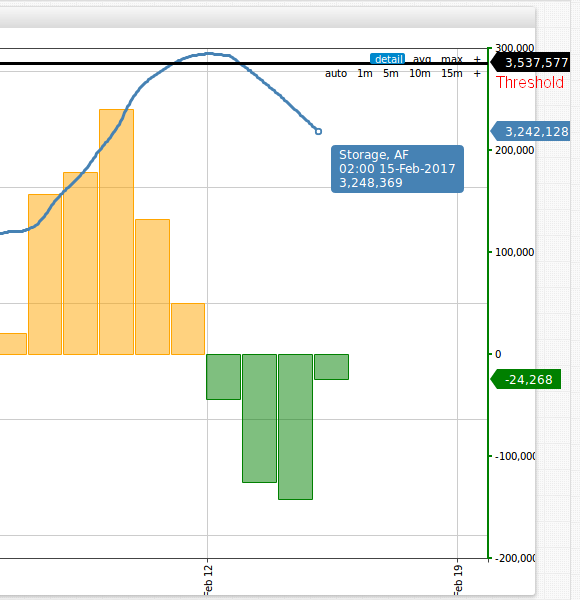
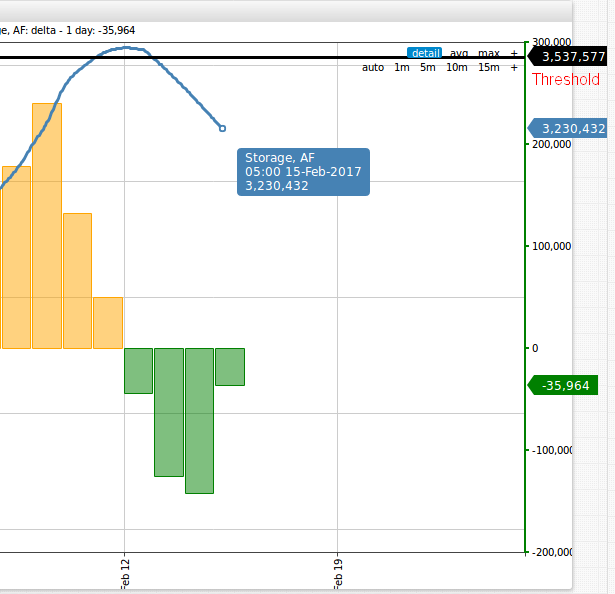
oroville-dam

diff --git a/OrovilleDam/README.md b/OrovilleDam/README.md
@@ -37,8 +37,9 @@ You can explore the basic CDWR portal (loaded into ATSD) by clicking the button 
 
 [![](Images/button.png)](https://apps.axibase.com/chartlab/dee79515/11/#fullscreen)
 
-**You do not need to install ATSD to look the real-time Oroville dam analysis in this article**. However, you can load the dataset into your ATSD instance by following the steps 
-provided at the [end of the article](#action-items).
+**You do not need to install ATSD to look the real-time Oroville dam analysis in this article**. 
+
+You can, however, load the dataset into your ATSD instance by following the steps provided at the [end of the article](#action-items).
  
 ### The Current Situation - Realtime Analysis
 ---------------------------------------------
@@ -79,13 +80,17 @@ You can explore this portal by clicking on the button below:
  
 [![](Images/button.png)](https://apps.axibase.com/chartlab/dee79515/2#fullscreen)
 
-### Reservoir Inflow and Outflows
----------------------------------
+### Reservoir Inflow, Outflows, and Precipitation
+-------------------------------------------------
 
-Below is an image showing dam inflow (orange) and outflow (dark green), as well as spillway outflow (light green), all given in acre-feet per day (afd), which we converted from cfs
-(these calculations can be seen by clicking on the below Chart Lab button). The image below shows these values for February 15th at 5:00 am 
-PT. Up to this point in the day, the dam inflow has been 61,475 afd, dam outflow has been 198,175 afd, and spillway outflow is 233,042 cfs. The given number in light green (431,217 afd) is the sum of the outflows.  
- 
+Below are three outputs for the Oroville dam: 
+
+* Precipitation vs new inflows, where net inflow is the difference between reservoir inflow and outflow. From this graph we can see the relationship between precipitation totals 
+  and the net inflows/storage of the dam.  
+* Inflows (measured in acre-foot per day) for 2017, 2016, 2015, 2014, and 2013. In this output, we can see that inflows for 2017 have been far greater than any of the recent previous years.
+* Precipitation per day (inches) for 2017, 2016, 2015, 2014, and 2013. While inflows for 2017 were quite a bit greater than previous years totals, we can see that precipitation totals
+  in 2017 were not too far ahead of previous years. 
+
 ![Figure 6](Images/Figure6.png)
 
 You can explore this portal by clicking on the button below:
@@ -115,7 +120,7 @@ You can explore this portal by clicking on the button below:
  
 [![](Images/button.png)](https://apps.axibase.com/chartlab/dee79515/7/#fullscreen)
 
-Below is an image of the situation at the time this article was published. As of 5:00 am PT on February 15th, the reservoir storage level was at 3,242,128 af, which is 289,208 af
+Below is an image of the situation at the time this article was published. As of 5:00 am PT on February 15th, the reservoir storage level was at 3,230,432 af, which is 307,145 af
 less than the dam threshold. We can also see that for the last several days, the storage level has been decreasing. However, rain has been [forecast](https://weather.com/en/weather/tenday/l/95966:4:US) 
 for the next several days.
 
@@ -141,17 +146,17 @@ WHERE t1.datetime >= '2017-01-01T00:00:00Z'
 | 2462228.8                  | 18.0                        | 136790.5                         | 
 ```
 
-Based off of our estimate, for every inch of rainfall at the Oroville dam, 136,790.5 acre-feet will be added to the reservoir. As of 5:00 am PT on February 15th, there is 289,208 af 
+Based off of our estimate, for every inch of rainfall at the Oroville dam, 136,790.5 acre-feet will be added to the reservoir. As of 5:00 am PT on February 15th, there is 307,145 af 
 of space left in the reservoir before it reaches its threshold. The maximum outflow per day that the dam is able is push out is **142,034 afd**, which was achieved on February 14th. 
 So, if we multiply the rainfall per day by our acre-feet rate (136,790.5) and subtract the maximum outflow, we should get a storage amount added per day. If we then divide the 
 storage added per day, we should get a answer for how many days it would take for the storage to reach threshold capacity again. Below is a table showing the amount of time for the
-dam storage to reach threshold capacity for a given amount of rainfall per day. 
+dam storage to reach threshold capacity for a given amount of rainfall per day.
 
 | Rainfall       | Storage Added/Day | Remaining Storage | Time to Reach Threshold |
 |----------------|-------------------|-------------------|-------------------------|
-| 1 inch per day | -5,243.5          | 289,208           | No storage gain         |
-| 2 inch per day | +131,547          | 289,208           | 2.198 days ~ 52 hours   |
-| 3 inch per day | +268,337.5        | 289,208           | 1.049 days ~ 26 hours   |
+| 1 inch per day | -5,243.5          | 307,145           | No storage gain         |
+| 2 inch per day | +131,547          | 307,145           | 2.334 days ~ 56 hours   |
+| 3 inch per day | +268,337.5        | 307,145           | 1.144 days ~ 27 hours   |
 
 Come back to this article in the coming days and look at our **real-time analysis** for updates on the Oroville dam. **You do not need to install ATSD** to continue to monitor
 the situation. Simply by clicking on each of the **Chart Lab buttons**, you can keep up to date on dam storage levels, dam inflow, dam outflow, spillway outflow, and precipitation.
